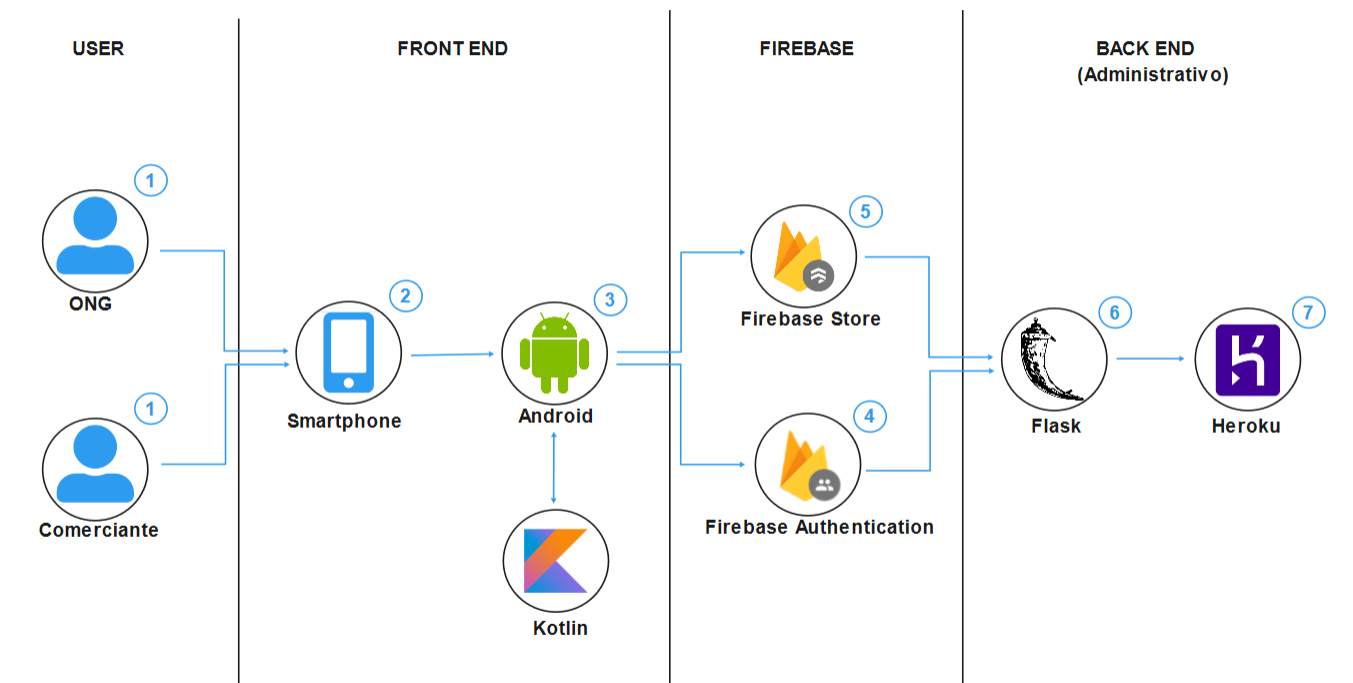
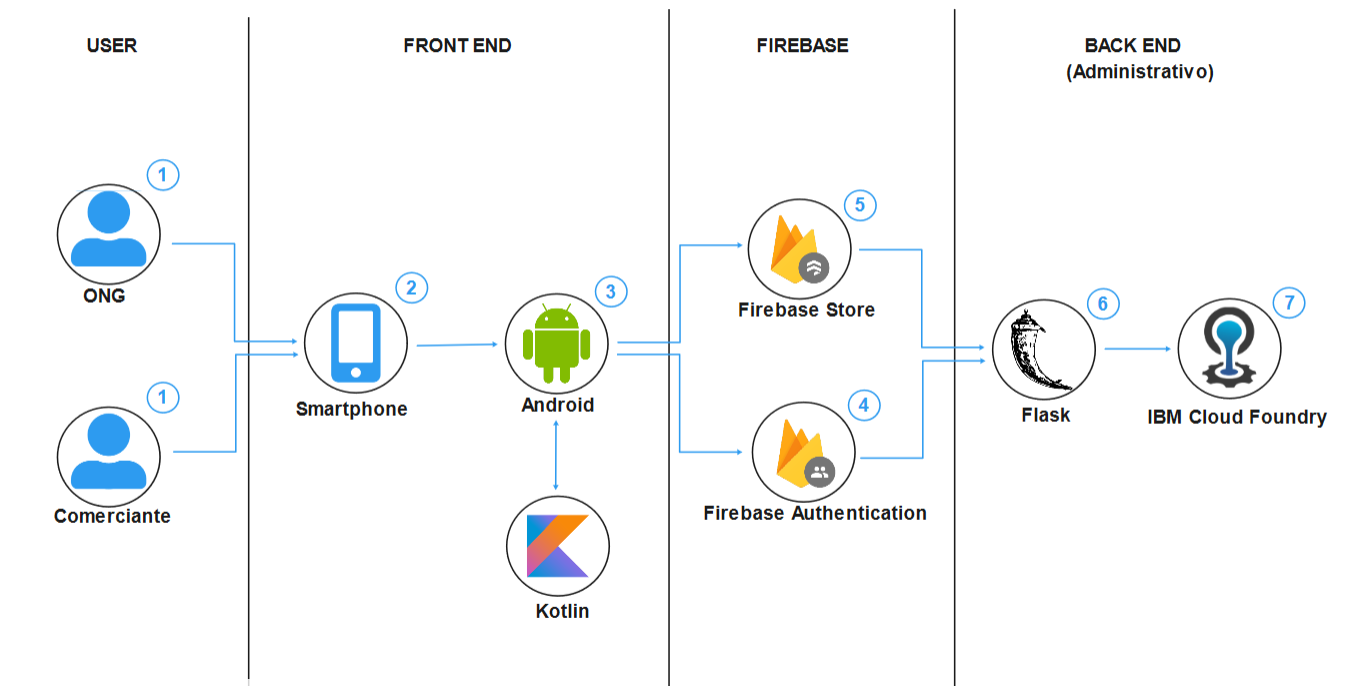
Update README.md and user flow image

diff --git a/README.md b/README.md
@@ -91,7 +91,7 @@ Podemos:
 - Kotlin
 - Flask
 - Firebase
-- Heroku
+- IBM Clound Foundry
 
 ---
 
